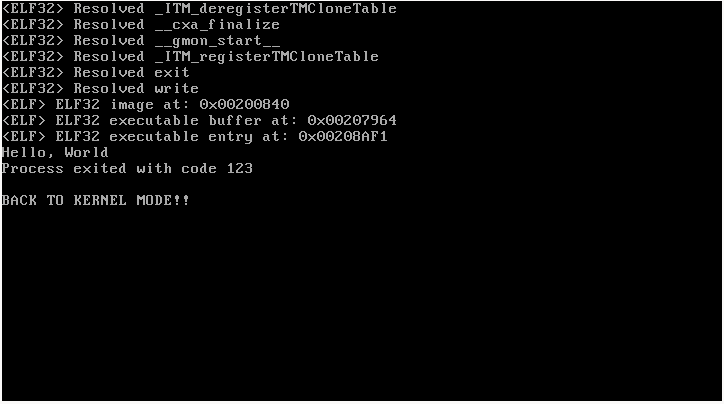
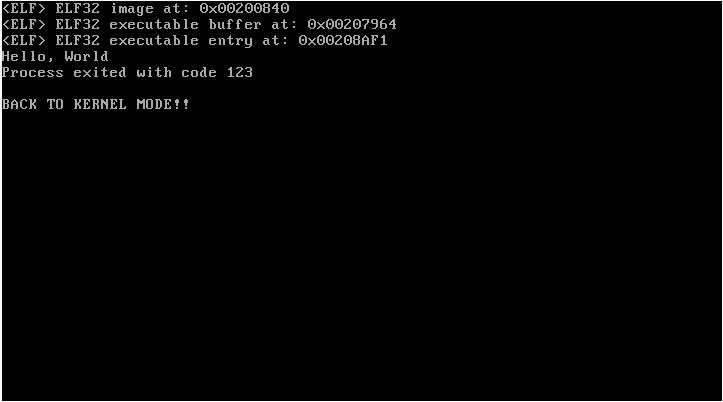
README change

Changed region(s): [[0.0, 0.0, 0.5477, 0.4478], [0.0, 0.9851, 1.0, 1.0], [0.0, 0.4776, 0.2739, 0.5075]]

diff --git a/kernel/src/exec/elf/elf_so.c b/kernel/src/exec/elf/elf_so.c
@@ -72,9 +72,6 @@ void* dlsym(int dl, char* sym)
 	{
 		if(strcmp(sym, strtab + symbols[i].st_name) == 0)
 		{
-			printf("<ELF32> Resolved ");
-			printf(sym);
-			printf("\n");
 			return (void*) elf + symbols[i].st_value;
 		}
 	}

diff --git a/README.md b/README.md
@@ -20,7 +20,7 @@ Report problems or give suggestions [Here](https://github.com/rwy420/Mercury/iss
 **Future ideas**
 - Multitasking
 
-**Screenshots**
+**Screenshots** \
 Dynamic library loading working:
 ![VirtualBox Output](./docs/example-result00.png "Out")
 ![Code](./docs/example-code00.png "Code")
